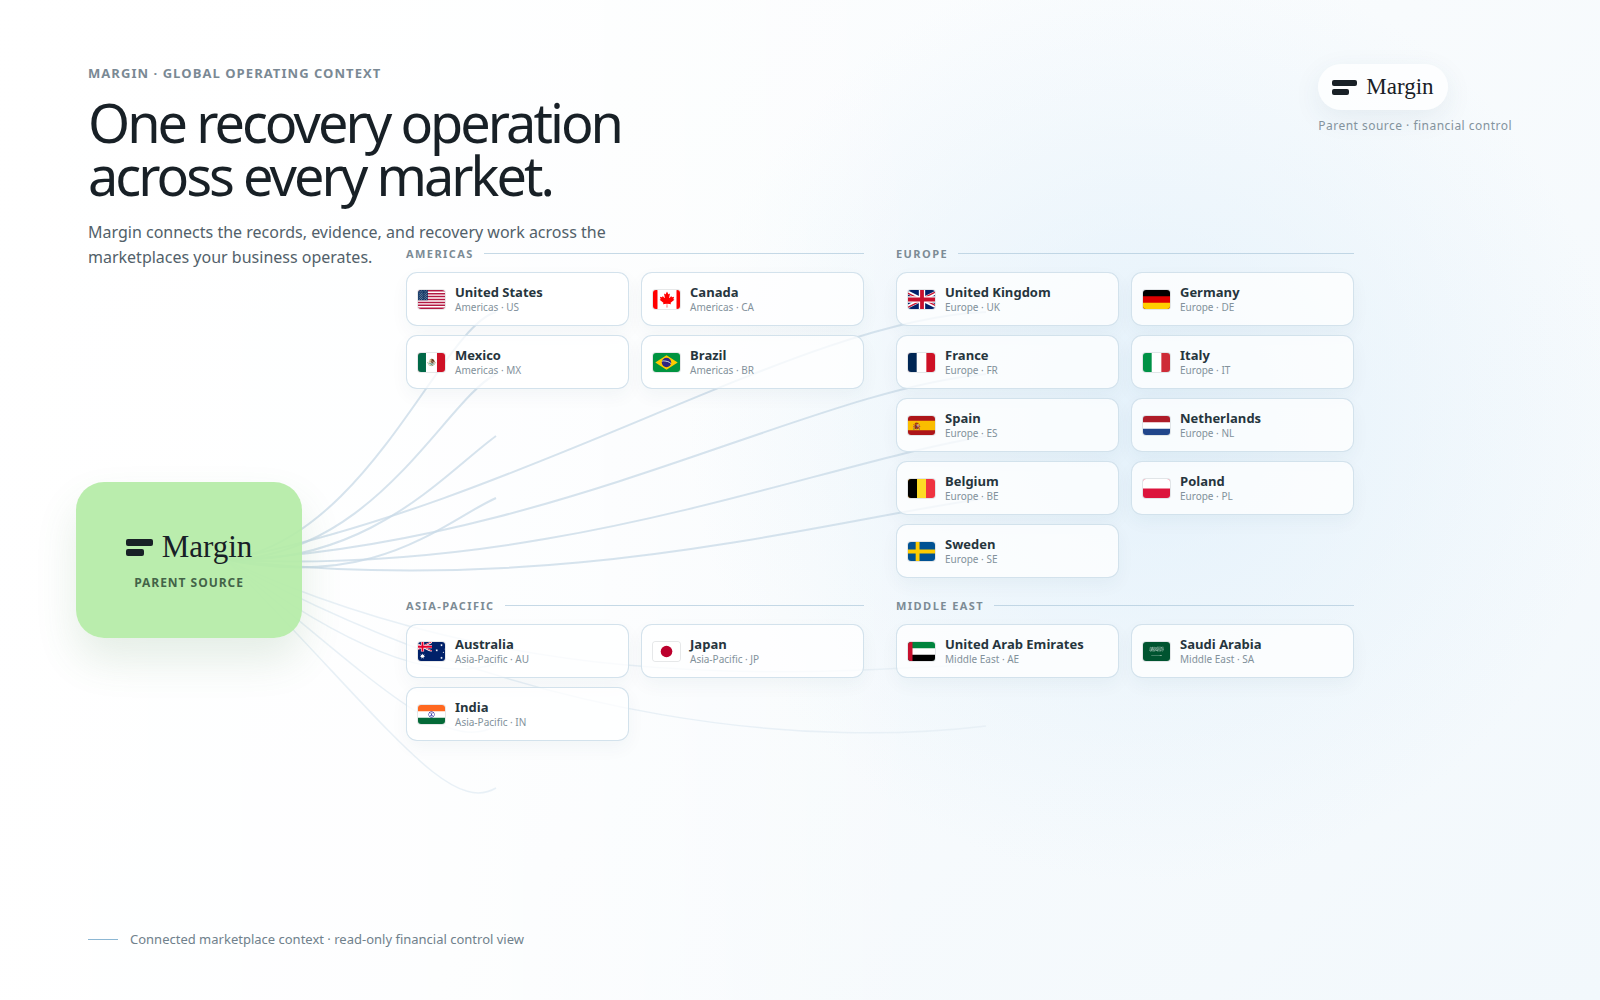
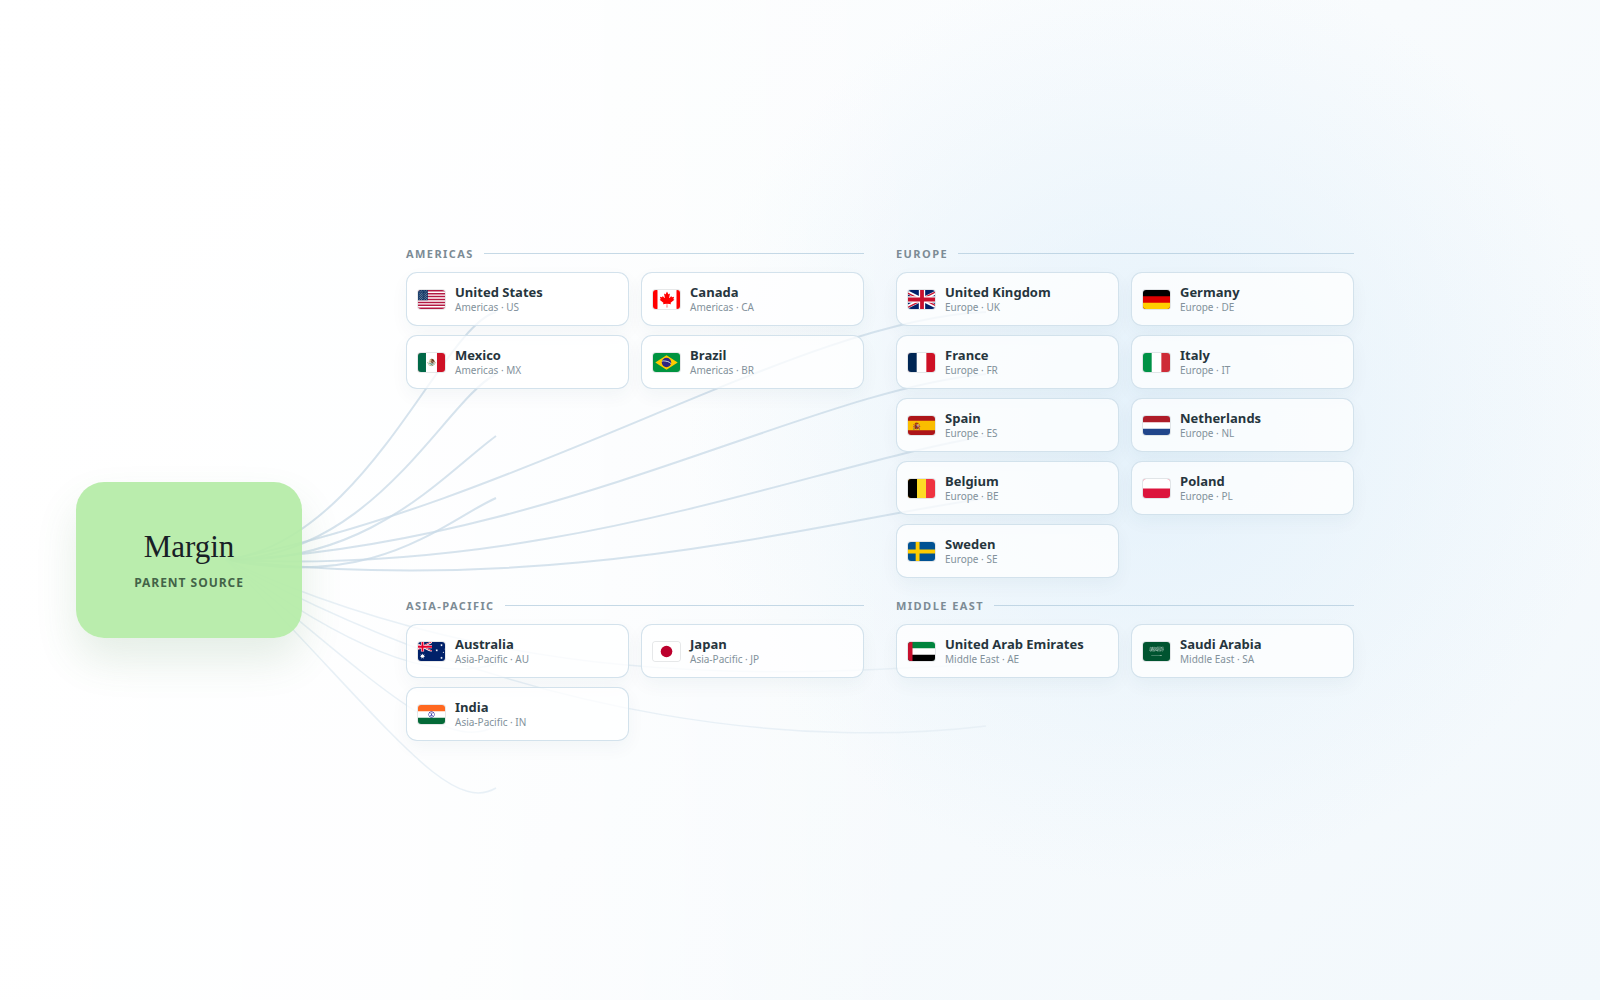
design: simplify global network visual

diff --git a/public/margin-global-recovery-network.html b/public/margin-global-recovery-network.html
@@ -35,11 +35,7 @@
     .links path { fill: none; stroke: var(--line); stroke-width: 2; opacity: .74; }
     .links path.secondary { stroke: var(--line-soft); stroke-width: 1.5; opacity: .95; }
     .origin { position: absolute; left: 0; top: 236px; width: 226px; height: 156px; border-radius: 28px; background: rgba(180, 236, 166, .92); box-shadow: 0 22px 42px rgba(71, 137, 77, .14); display: flex; flex-direction: column; align-items: center; justify-content: center; }
-    .origin .mark { display: flex; align-items: center; gap: 9px; font-family: Georgia, serif; font-size: 31px; }
-    .origin .symbol { width: 27px; height: 17px; position: relative; }
-    .origin .symbol::before, .origin .symbol::after { content: ""; position: absolute; left: 0; background: #182026; border-radius: 2px; }
-    .origin .symbol::before { top: 0; width: 27px; height: 7px; }
-    .origin .symbol::after { bottom: 0; width: 18px; height: 7px; }
+    .origin .mark { display: flex; align-items: center; justify-content: center; font-family: Georgia, serif; font-size: 31px; }
     .origin p { margin: 9px 0 0; font-size: 12px; font-weight: 700; letter-spacing: .08em; text-transform: uppercase; color: #436348; }
     .region { position: absolute; width: 458px; }
     .region-title { display: flex; align-items: center; gap: 10px; margin-bottom: 11px; color: #7c8b95; font-size: 11px; font-weight: 700; letter-spacing: .13em; text-transform: uppercase; }
@@ -60,17 +56,6 @@
 <body>
   <main>
     <div class="wash"></div>
-    <header class="header">
-      <div>
-        <div class="eyebrow">Margin · global operating context</div>
-        <h1>One recovery operation across every market.</h1>
-        <p class="subhead">Margin connects the records, evidence, and recovery work across the marketplaces your business operates.</p>
-      </div>
-      <div>
-        <div class="source-mark"><span class="source-symbol"></span>Margin</div>
-        <div class="source-label">Parent source · financial control</div>
-      </div>
-    </header>
     <section class="network" aria-label="Margin global marketplace coverage">
       <svg class="links" viewBox="0 0 1464 674" preserveAspectRatio="none" aria-hidden="true">
         <path d="M150 314 C 292 294, 365 81, 420 66" />
@@ -87,7 +72,7 @@
         <path class="secondary" d="M150 314 C 460 456, 745 425, 910 418" />
         <path class="secondary" d="M150 314 C 460 485, 748 500, 910 480" />
       </svg>
-      <div class="origin"><div class="mark"><span class="symbol"></span>Margin</div><p>Parent source</p></div>
+      <div class="origin"><div class="mark">Margin</div><p>Parent source</p></div>
       <div class="region americas"><div class="region-title">Americas</div><div class="region-grid">
         <div class="country"><img class="flag" src="flags/us.svg"><div><div class="country-name">United States</div><div class="country-meta">Americas · US</div></div></div>
         <div class="country"><img class="flag" src="flags/ca.svg"><div><div class="country-name">Canada</div><div class="country-meta">Americas · CA</div></div></div>
@@ -115,7 +100,6 @@
         <div class="country"><img class="flag" src="flags/sa.svg"><div><div class="country-name">Saudi Arabia</div><div class="country-meta">Middle East · SA</div></div></div>
       </div></div>
     </section>
-    <div class="footer-note"><span></span>Connected marketplace context · read-only financial control view</div>
   </main>
 </body>
 </html>
